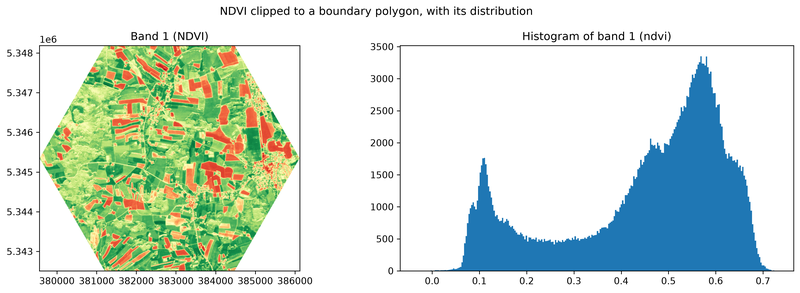
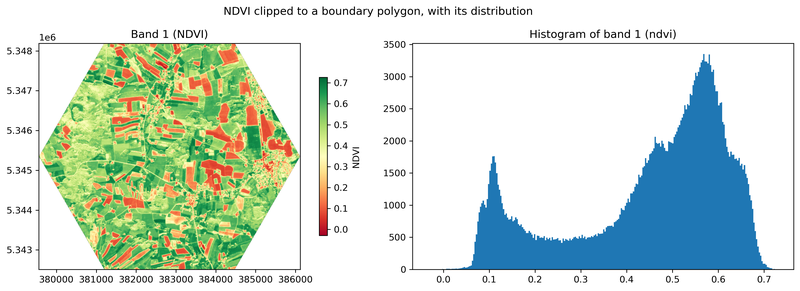
feat: added colorbar to gallery plots

diff --git a/scripts/build_gallery.py b/scripts/build_gallery.py
@@ -80,6 +80,7 @@ def main() -> None:
         cmap="RdYlGn",
         figsize=FIGSIZE,
         stretch=False,
+        colorbar=True,
         save_path=OUT_DIR / "index_ndvi.jpg",
     )
 
@@ -89,6 +90,7 @@ def main() -> None:
         cmap="Spectral_r",
         figsize=FIGSIZE,
         stretch=False,
+        colorbar=True,
         title="Copernicus DEM over the same footprint (356-560 m)",
         save_path=OUT_DIR / "dem_terrain.jpg",
     )
@@ -108,6 +110,7 @@ def main() -> None:
         cmap="RdYlGn",
         # wide enough that the UTM x-axis labels do not collide
         figsize=(13, 4.5),
+        colorbar=True,
         title="NDVI clipped to a boundary polygon, with its distribution",
         save_path=OUT_DIR / "clip_ndvi_histogram.png",
     )
